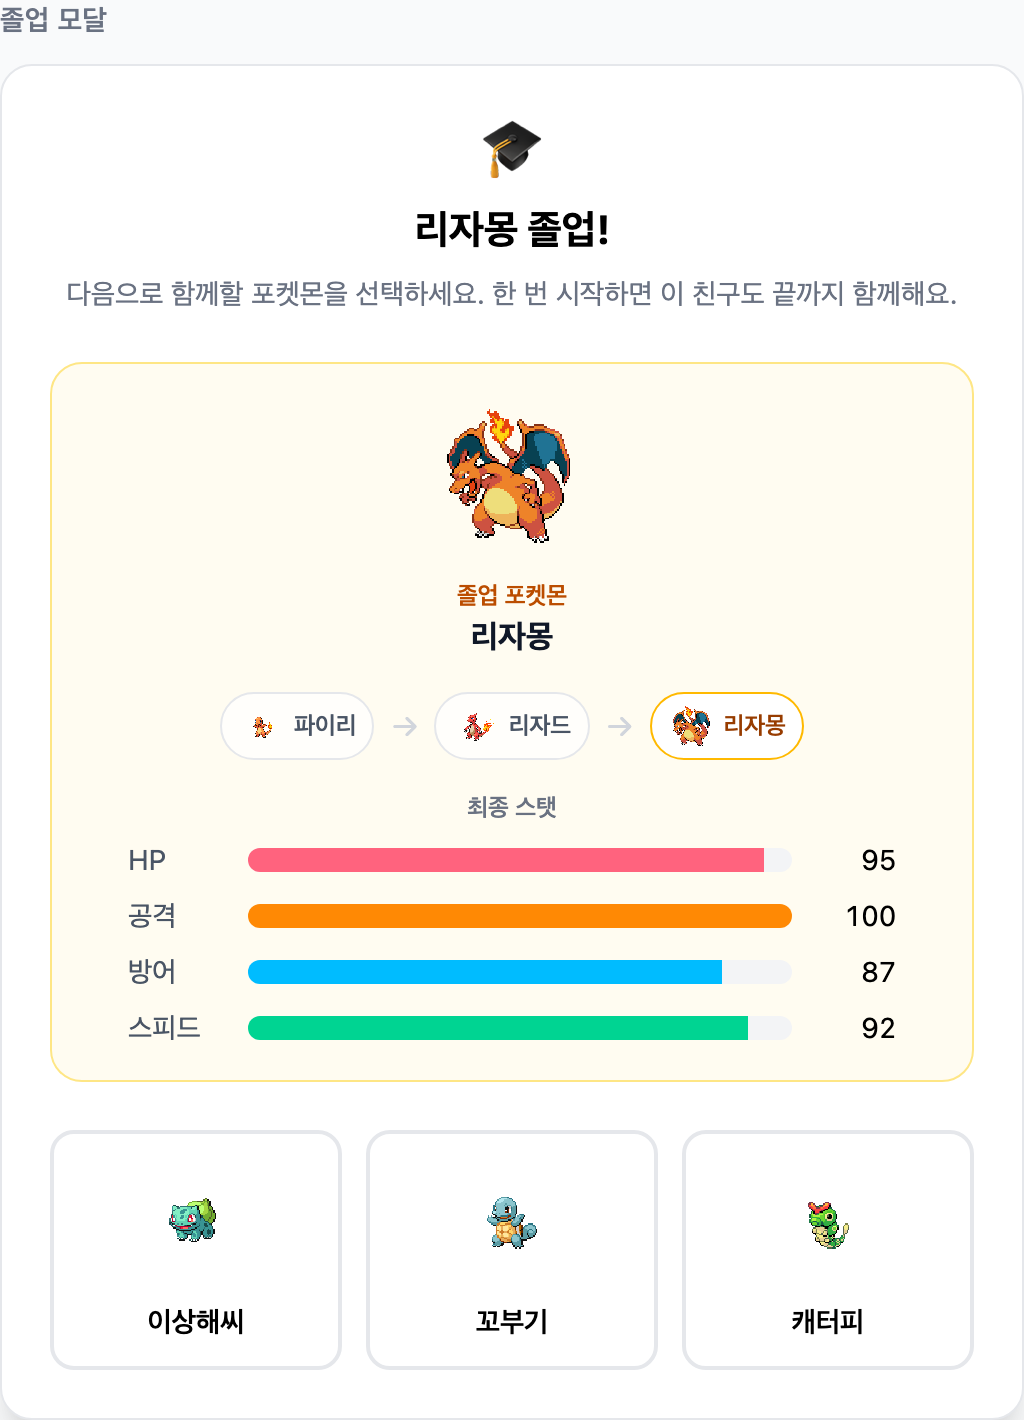
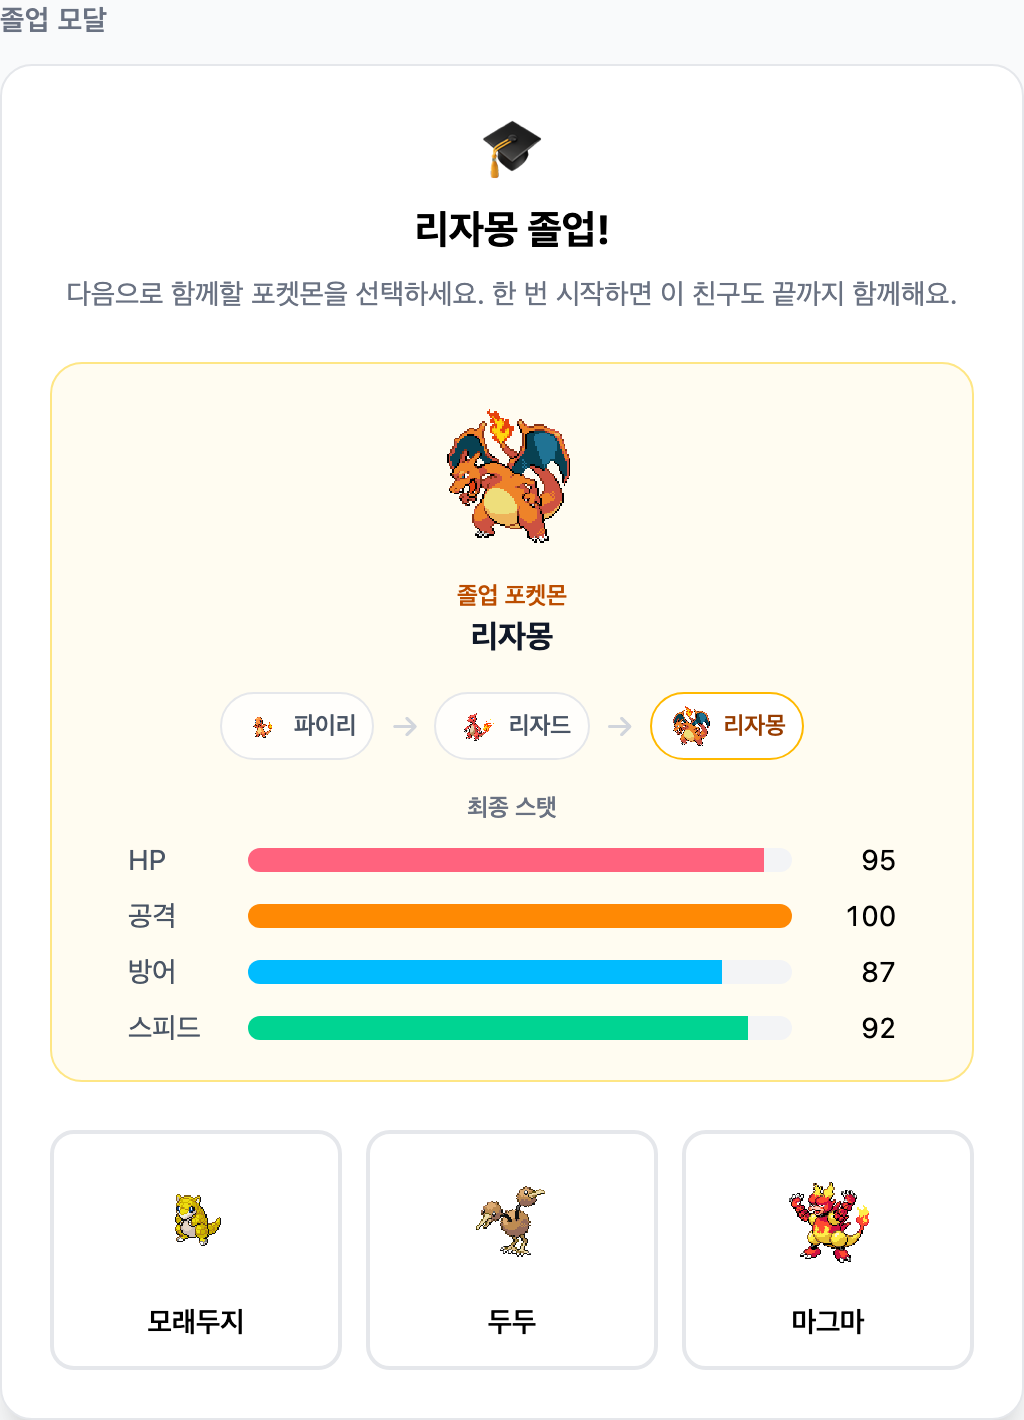
fix: preview 후보 난수 의도 명확화

Changed region(s): [[0.75, 0.8366, 0.8438, 0.9606], [0.4688, 0.8366, 0.5312, 0.9606], [0.1562, 0.8366, 0.2188, 0.9606]]

diff --git a/src/features/preview/QuizPreviewPage.tsx b/src/features/preview/QuizPreviewPage.tsx
@@ -20,13 +20,20 @@ const allSpecies = getAllSpecies();
 const sampleSpecies = findSpeciesById("charmander") ?? allSpecies[0];
 const evolutionNext = findSpeciesById("charmeleon") ?? allSpecies[0];
 const graduatedSample = findSpeciesById("charizard") ?? allSpecies[0];
+
+function createStablePreviewRandom() {
+  const values = [0.13, 0.47, 0.83];
+  let index = 0;
+  return () => values[index++ % values.length];
+}
+
 // 실제 candidatePicker 호출로 정합 보장 (1차 진화체만 + 도감 미등록만 + 전설 제외)
 const graduationCandidates = pickGraduationCandidates({
   unlockedSpeciesIds: ["charmander", "charmeleon", "charizard"],
   graduatedSpeciesIds: ["charizard"],
   legendaryStage: "none",
   allSpecies,
-  random: () => 0,
+  random: createStablePreviewRandom(),
 });
 const sampleStats = { hp: 42, attack: 57, defense: 33, speed: 61 };
 
